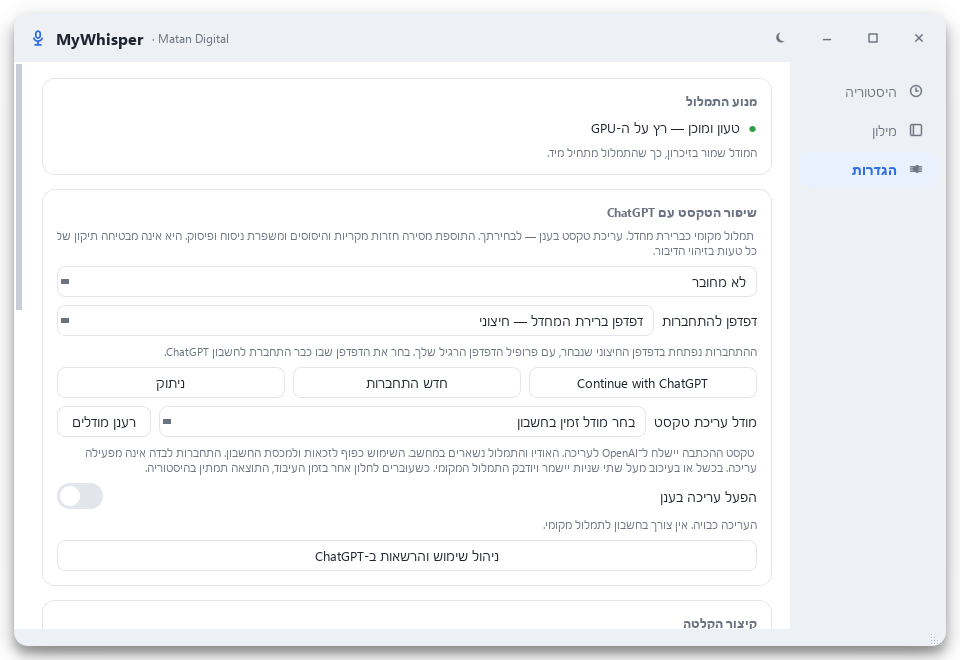
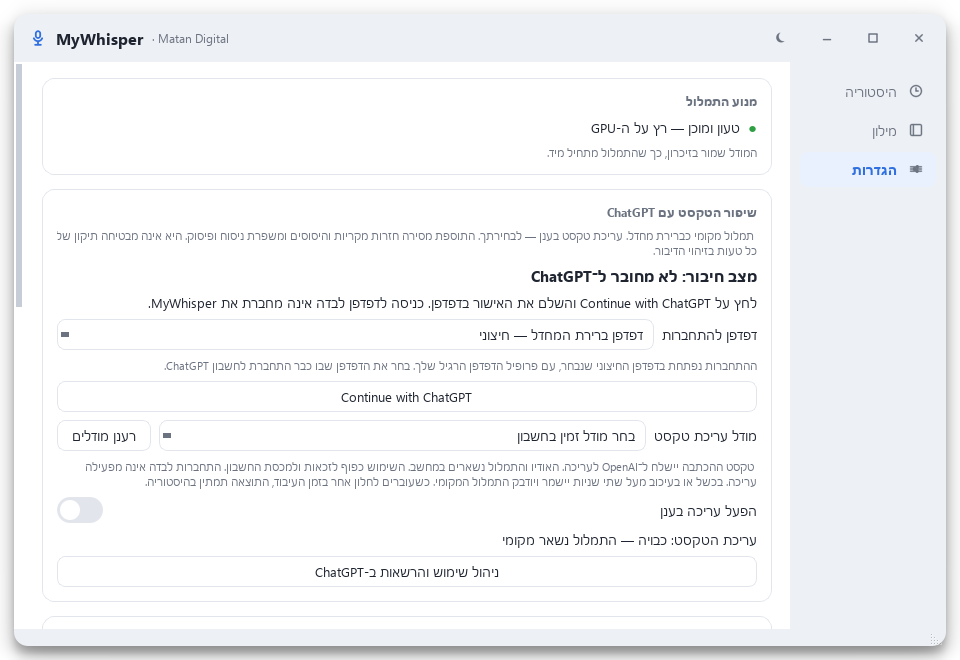
Clarify ChatGPT connection status and preserve sign-in failures

Changed region(s): [[0.0625, 0.3939, 0.7812, 0.8788], [0.0625, 0.9091, 0.7812, 0.9697], [0.0625, 0.4545, 0.0938, 0.5152]]

diff --git a/docs/index.html b/docs/index.html
@@ -916,12 +916,12 @@ footer a{color:var(--muted);transition:color 0.2s}footer a:hover{color:var(--tex
     <p class="sub">העדכונים האחרונים מתוך יומן השינויים של התוכנה.</p>
     <div class="release-notes">
       <ul>
+        <li><strong>מצב חיבור ברור ל-ChatGPT</strong>: חיווי בולט „מחובר”, „לא מחובר”, „ממתין לאישור” או „נדרשת התחברות מחדש”, לצד חשבון פעיל. מצב עריכת הטקסט מוצג בנפרד, שגיאת התחברות נשארת במסך, והפעלת עריכה זמינה רק אחרי חיבור זכאי ובחירת מודל זמין.</li>
         <li><strong>התחברות בדפדפן החיצוני</strong>: בחירת דפדפן מותקן (למשל Chrome או Edge) והפעלתו ישירות, כדי להשתמש בפרופיל שבו כבר נכנסתם לחשבון ChatGPT. גם ניהול השימוש נפתח באותו דפדפן.</li>
         <li><strong>שיפור הטקסט עם ChatGPT לבחירה</strong>: ניקוי חזרות מקריות והיסוסים ושיפור ניסוח ופיסוק אחרי התמלול המקומי ומילון התיקונים. התוספת כבויה בהתקנה חדשה ובשדרוג; התחברות לבדה אינה מפעילה אותה.</li>
         <li><strong>חשבון אישי והרשאות מוגנות</strong>: התחברות רשמית עם ChatGPT בדפדפן, בחירת חשבון ומודל זמין, ניתוק וקישור לניהול שימוש. ההרשאות מוצפנות עם Windows DPAPI בתיקיית המשתמש, בנפרד מהפרויקט. אין מפתח API משותף או מעבר אוטומטי ל-API בתשלום.</li>
         <li><strong>תקציב עריכה של שתי שניות</strong>: חיווי „מסדר טקסט…” ותשובה מלאה לפני הדבקה אחת. בכשל, מכסה חסומה או עיכוב — שימוש בתמלול המקומי והתעלמות מתוצאה מאוחרת.</li>
         <li><strong>מקור בהיסטוריה ושמירה על יעד ההדבקה</strong>: „הצג מקור” מציג את התמלול שלפני עריכת OpenAI. מעבר לחלון אחר בזמן העיבוד משאיר את התוצאה בהיסטוריה ומציג הודעה במקום להדביק בחלון האחר.</li>
-        <li><strong>הגדרה ברורה של פרטיות</strong>: תמלול מקומי כברירת מחדל. עריכת טקסט בענן — לבחירתך. רק טקסט ההכתבה נשלח לעריכה כאשר התוספת מופעלת; האודיו נשאר במחשב. השימוש כפוף לזכאות ולמכסת חשבון ChatGPT.</li>
       </ul>
     </div>
     <div class="cta-row">

diff --git a/app/ui_pages/settings_page.py b/app/ui_pages/settings_page.py
@@ -245,6 +245,17 @@ class SettingsPageMixin:
             "התוספת מסירה חזרות מקריות והיסוסים ומשפרת ניסוח ופיסוק. "
             "היא אינה מבטיחה תיקון של כל טעות בזיהוי הדיבור."))
         self._cloud_busy = False
+        self._cloud_connection = QLabel()
+        self._cloud_connection.setObjectName("connectionstatus")
+        self._cloud_connection.setTextFormat(Qt.PlainText)
+        self._cloud_connection.setWordWrap(True)
+        self._cloud_connection.setAccessibleName("מצב החיבור לחשבון ChatGPT")
+        card.vbox.addWidget(self._cloud_connection)
+        self._cloud_connection_detail = QLabel()
+        self._cloud_connection_detail.setTextFormat(Qt.PlainText)
+        self._cloud_connection_detail.setObjectName("fieldlabel")
+        self._cloud_connection_detail.setWordWrap(True)
+        card.vbox.addWidget(self._cloud_connection_detail)
         self._cloud_account = QComboBox()
         self._cloud_account.setAccessibleName("חשבון ChatGPT פעיל")
         self._cloud_account.currentIndexChanged.connect(self._cloud_account_changed)
@@ -302,7 +313,9 @@ class SettingsPageMixin:
         card.vbox.addLayout(row)
         self._cloud_status = QLabel()
         self._cloud_status.setWordWrap(True)
-        self._cloud_status.setObjectName("hint")
+        self._cloud_status.setTextFormat(Qt.PlainText)
+        self._cloud_status.setObjectName("fieldlabel")
+        self._cloud_status.setAccessibleName("מצב עריכת הטקסט בענן")
         card.vbox.addWidget(self._cloud_status)
         usage = QPushButton("ניהול שימוש והרשאות ב-ChatGPT")
         usage.clicked.connect(lambda: self.ui.chatgpt_action("usage"))
@@ -318,7 +331,7 @@ class SettingsPageMixin:
             return
         st = status or self.ui.chatgpt_status()
         for combo, items, current in (
-            (self._cloud_account, [("לא מחובר", "")] + [(a["label"], a["key"]) for a in st.get("accounts", [])], st.get("active", "")),
+            (self._cloud_account, [("בחר חשבון", "")] + [(a["label"], a["key"]) for a in st.get("accounts", [])], st.get("active", "")),
             (self._cloud_model, [("בחר מודל זמין בחשבון", "")] + [(m["display_name"], m["slug"]) for m in st.get("models", [])], st.get("model", ""))):
             existing = [(combo.itemText(i), combo.itemData(i)) for i in range(combo.count())]
             combo.blockSignals(True)
@@ -330,25 +343,68 @@ class SettingsPageMixin:
                 combo.setCurrentIndex(max(0, combo.findData(current)))
             combo.blockSignals(False)
         connected = st.get("connected", False)
+        error = st.get("error")
+        reconnect = error in ("authorization", "identity") or (bool(st.get("active")) and not connected)
+        self._cloud_account.setVisible(bool(st.get("accounts")))
+        self._cloud_relogin.setVisible(reconnect or (connected and not st.get("eligible")))
         self._cloud_relogin.setEnabled(bool(st.get("active")))
+        self._cloud_logout.setVisible(connected)
         self._cloud_logout.setEnabled(connected)
+        self._cloud_model.setEnabled(connected and st.get("eligible", False))
         self._cloud_refresh.setEnabled(connected)
+        model_ready = st.get("model") in {m["slug"] for m in st.get("models", [])}
+        ready = (connected and st.get("eligible", False) and model_ready
+                 and error not in ("authorization", "identity", "permission", "ineligible", "storage"))
+        self._cloud_switch.setEnabled(bool(ready) or st.get("enabled") is True)
         self._cloud_switch.blockSignals(True)
         self._cloud_switch.setChecked(st.get("enabled") is True)
         self._cloud_switch.blockSignals(False)
-        error = st.get("error")
-        text = ("העריכה פעילה בחשבון " + st.get("email", "ChatGPT") if st.get("enabled") else
-                "החשבון מחובר; העריכה כבויה." if connected else "העריכה כבויה. אין צורך בחשבון לתמלול מקומי.")
+        if error == "storage":
+            connection = "מצב חיבור: לא ניתן לקרוא או לשמור הרשאות"
+            detail = "ההרשאות המוצפנות אינן זמינות. התמלול ממשיך מקומית."
+        elif reconnect:
+            connection = "מצב חיבור: נדרשת התחברות מחדש"
+            detail = "ההרשאה לחשבון אינה פעילה. לחץ על ‘חדש התחברות’ ואשר בדפדפן."
+        elif connected:
+            connection = "מצב חיבור: מחובר ל־ChatGPT"
+            detail = "חשבון פעיל: " + (st.get("email") or "ChatGPT")
+        else:
+            connection = "מצב חיבור: לא מחובר ל־ChatGPT"
+            detail = "לחץ על Continue with ChatGPT והשלם את האישור בדפדפן. כניסה לדפדפן לבדה אינה מחברת את MyWhisper."
+        signin_error = st.get("sign_in_error")
+        if signin_error:
+            failure = {
+                "timeout": "האישור לא התקבל בזמן. לחץ על ההתחברות ופתח ניסיון חדש בדפדפן.",
+                "cancelled": "ניסיון ההתחברות בוטל. אפשר להתחבר שוב כשתרצה.",
+                "permission": "ההרשאה לא אושרה. נסה שוב ואשר את החיבור בדפדפן.",
+                "identity": "אימות זהות החשבון נכשל. נסה להתחבר מחדש.",
+                "authorization": "ההרשאה נדחתה או פגה. נסה להתחבר מחדש.",
+                "browser": "הדפדפן לא נפתח. בחר דפדפן מותקן ונסה שוב.",
+                "storage": "לא ניתן לשמור את הרשאות החיבור במחשב.",
+            }.get(signin_error, "החיבור לא הושלם. בדוק את האינטרנט ונסה שוב.")
+            if connected:
+                detail += "\nהניסיון האחרון לא הושלם: " + failure
+            else:
+                detail = failure
+        if st.get("signing_in"):
+            connection = "מצב חיבור: ממתין לאישור בדפדפן…"
+            detail = "השלם את ההתחברות והאישור בדפדפן. החיבור יופיע כאן לאחר שהאישור יתקבל."
+        self._cloud_connection.setText(connection)
+        self._cloud_connection_detail.setText(detail)
+        self._cloud_switch.setToolTip("" if ready else "יש לחבר חשבון זכאי ולבחור מודל זמין לפני הפעלה.")
+        text = ("עריכת הטקסט: פעילה" if st.get("enabled") else "עריכת הטקסט: כבויה — התמלול נשאר מקומי")
         if connected and not st.get("eligible", False):
-            text = "החשבון לא אישר שימוש במסגרת ChatGPT או אינו זכאי; התמלול ממשיך מקומית."
+            text += "\nהחשבון מחובר, אך לא אושרה הרשאת עריכה או שהחשבון אינו זכאי."
         elif error:
-            text = {"quota": "המכסה אינה זמינה. העריכה כובתה; בדוק ניהול שימוש לפני הפעלה מחדש.",
+            text += "\n" + {"quota": "המכסה אינה זמינה. העריכה כובתה; בדוק ניהול שימוש לפני הפעלה מחדש.",
                     "ineligible": "החשבון אינו זכאי לעריכה. התמלול ממשיך מקומית.",
                     "storage": "שמירת ההרשאות המוצפנות אינה זמינה; התמלול ממשיך מקומית.",
                     "unsupported": "המודל או האפשרות שנבחרו אינם נתמכים; בחר מודל אחר."}.get(
                         error, "נדרש חיבור מחדש לחשבון ChatGPT; התמלול ממשיך מקומית.")
-        elif connected and not st.get("model"):
-            text = "יש לבחור מודל זמין בחשבון לפני הפעלת העריכה."
+        elif connected and not model_ready:
+            text += "\nבחר מודל זמין ואז הפעל עריכה בנפרד."
+        elif connected and not st.get("enabled"):
+            text += "\nהחשבון מחובר. להפעלת השיפור יש להפעיל את המתג ולאשר שליחת טקסט."
         self._cloud_status.setText(text)
         self._cloud_login.setToolTip("הוסף חשבון ChatGPT" if st.get("accounts") else "התחבר עם חשבון ChatGPT אישי")
 
@@ -393,6 +449,9 @@ class SettingsPageMixin:
             widget.setEnabled(False)
         self._cloud_switch.setEnabled(action == "catalog" and self.ui.chatgpt_status().get("enabled", False))
         self._cloud_browser.setEnabled(False)
+        if action in ("login", "relogin"):
+            self._cloud_connection.setText("מצב חיבור: ממתין לאישור בדפדפן…")
+            self._cloud_connection_detail.setText("השלם את ההתחברות והאישור בדפדפן. החיבור יופיע כאן לאחר שהאישור יתקבל.")
         self._cloud_cancel.setVisible(action in ("login", "relogin"))
         self._cloud_status.setText("השלם התחברות ואישור בדפדפן…" if action in ("login", "relogin") else "מעבד…")
         def work():

diff --git a/tests/test_chatgpt.py b/tests/test_chatgpt.py
@@ -204,6 +204,7 @@ class OAuthTests(unittest.TestCase):
         self.addCleanup(http.close)
         auth = ChatGPTAuth(http, MemoryStore())
         def browser(url):
+            self.assertTrue(auth.status()["signing_in"])
             self.params.update({k: v[0] for k, v in parse_qs(urlsplit(url).query).items()})
             query = {"state": self.params["state"], "client_id": "oaiapp_test", "code": "code"}
             query.update(callback_changes or {})
@@ -222,6 +223,8 @@ class OAuthTests(unittest.TestCase):
         status = auth.sign_in(browser=browser, timeout=1)
         self.assertTrue(status["connected"])
         self.assertFalse(status["enabled"])
+        self.assertFalse(status["signing_in"])
+        self.assertEqual(status["sign_in_error"], "")
         self.assertTrue(status["eligible"])
         self.assertEqual(status["models"][0]["slug"], "gpt-6-luna")
         self.assertEqual(self.params["client_id"], "dynamic_agent_client")
@@ -249,6 +252,18 @@ class OAuthTests(unittest.TestCase):
         with self.assertRaises(AuthError):
             auth.sign_in(browser=browser, timeout=.06)
         self.assertEqual(self.calls, [])
+        self.assertFalse(auth.status()["signing_in"])
+        self.assertEqual(auth.status()["sign_in_error"], "timeout")
+
+    def test_failed_new_login_keeps_existing_connection_and_retry_clears_failure(self):
+        auth, browser = self.setup_auth()
+        connected(auth)
+        with self.assertRaises(AuthError):
+            auth.sign_in(browser=lambda _: False)
+        self.assertTrue(auth.status()["connected"])
+        self.assertEqual(auth.status()["sign_in_error"], "browser")
+        auth.sign_in(browser=browser, timeout=1)
+        self.assertEqual(auth.status()["sign_in_error"], "")
 
     def test_invalid_signature_is_rejected(self):
         auth, _ = self.setup_auth()
@@ -442,6 +457,38 @@ class CloudSettingsTests(unittest.TestCase):
     def test_construct_and_refresh_settings_perform_no_auth_actions(self):
         self.win._refresh_cloud()
         self.assertFalse(self.win._cloud_switch.isChecked())
+        self.ui.chatgpt_action.assert_not_called()
+
+    def test_connection_and_editing_states_are_independent_and_controls_are_gated(self):
+        base = {"accounts": [], "models": [{"slug": "luna", "display_name": "Luna"}], "enabled": False}
+        cases = [
+            ({}, "לא מחובר", "כבויה", False),
+            ({"connected": True, "eligible": True, "email": "owner@example.test", "model": "luna"}, "מחובר ל־ChatGPT", "כבויה", True),
+            ({"connected": True, "eligible": True, "enabled": True, "model": "luna"}, "מחובר ל־ChatGPT", "פעילה", True),
+            ({"connected": True, "eligible": True}, "מחובר ל־ChatGPT", "בחר מודל", False),
+            ({"connected": True, "eligible": True, "model": "luna", "models": []}, "מחובר ל־ChatGPT", "בחר מודל", False),
+            ({"connected": True, "eligible": False, "active": "a"}, "מחובר ל־ChatGPT", "אינו זכאי", False),
+            ({"connected": False, "active": "a", "error": "authorization"}, "נדרשת התחברות מחדש", "כבויה", False),
+            ({"signing_in": True}, "ממתין לאישור", "כבויה", False),
+        ]
+        for changes, connection, editing, ready in cases:
+            with self.subTest(changes=changes):
+                self.win._refresh_cloud({**base, **changes})
+                self.assertIn(connection, self.win._cloud_connection.text())
+                self.assertIn(editing, self.win._cloud_status.text())
+                self.assertEqual(self.win._cloud_switch.isEnabled(), ready)
+        self.ui.chatgpt_action.assert_not_called()
+
+    def test_login_failure_stays_visible_after_polling_without_hiding_existing_account(self):
+        for connected_now in (False, True):
+            status = {"connected": connected_now, "sign_in_error": "timeout", "email": "owner@example.test"}
+            self.ui.chatgpt_status = lambda: status
+            for _ in range(3):
+                self.win._refresh_cloud()
+                self.assertIn("האישור לא התקבל בזמן", self.win._cloud_connection_detail.text())
+                self.assertIn("מחובר ל־ChatGPT" if connected_now else "לא מחובר", self.win._cloud_connection.text())
+            if connected_now:
+                self.assertIn("owner@example.test", self.win._cloud_connection_detail.text())
         self.ui.chatgpt_action.assert_not_called()
 
     def test_cancel_activation_does_not_opt_in(self):

diff --git a/app/chatgpt_auth.py b/app/chatgpt_auth.py
@@ -138,6 +138,8 @@ class ChatGPTAuth:
         self._signin_cancel = threading.Event()
         self._signin_lock = threading.Lock()
         self.error = ""
+        self.signing_in = False
+        self.sign_in_error = ""
         try:
             self.data = self.store.load()
         except AuthError:
@@ -154,6 +156,7 @@ class ChatGPTAuth:
                     "connected": bool(account.get("refresh_token")),
                     "eligible": REQUIRED_SCOPES <= set(account.get("scopes", [])),
                     "email": account.get("email", ""), "error": self.error,
+                    "signing_in": self.signing_in, "sign_in_error": self.sign_in_error,
                     "models": list(account.get("models", [])),
                     "accounts": [{"key": key, "label": (a.get("email") or "ChatGPT")
                                   + " · " + key[-6:]} for key, a in self.data["accounts"].items()]}
@@ -183,6 +186,7 @@ class ChatGPTAuth:
             self.data["active"] = key
             self.store.save(self.data)
             self.error = ""
+            self.sign_in_error = ""
 
     async def _json(self, method, url, **kwargs):
         response = await self.http.client.request(method, url, **kwargs)
@@ -236,10 +240,24 @@ class ChatGPTAuth:
     def sign_in(self, returning=False, browser=open_external_browser, timeout=180):
         if not self._signin_lock.acquire(blocking=False):
             raise AuthError("busy")
+        with self.lock:
+            self.signing_in = True
+            self.sign_in_error = ""
         try:
-            return self._sign_in(returning, browser, timeout)
+            self._sign_in(returning, browser, timeout)
+        except AuthError as error:
+            with self.lock:
+                self.sign_in_error = str(error)
+            raise
+        except Exception:
+            with self.lock:
+                self.sign_in_error = "connection"
+            raise
         finally:
+            with self.lock:
+                self.signing_in = False
             self._signin_lock.release()
+        return self.status()
 
     def _sign_in(self, returning, browser, timeout):
         self._signin_cancel.clear()
@@ -415,6 +433,7 @@ class ChatGPTAuth:
                 self._active().pop(name, None)
             self.store.save(self.data)
             self.error = ""
+            self.sign_in_error = ""
         async def revoke():
             metadata = await self._json("GET", AUTH + "/.well-known/openid-configuration")
             endpoint = metadata.get("revocation_endpoint")

diff --git a/app/make_screens.py b/app/make_screens.py
@@ -97,8 +97,24 @@ def main():
     parser = argparse.ArgumentParser(description=__doc__)
     parser.add_argument("--overlay-only", action="store_true",
                         help="Refresh only the recording HUD screenshot")
+    parser.add_argument("--chatgpt-states", action="store_true",
+                        help="Render connected and failed-sign-in examples with synthetic account data")
     args = parser.parse_args()
     DOCS.mkdir(exist_ok=True)
+    if args.chatgpt_states:
+        for name, status in (
+            ("connected", {"active": "demo", "connected": True, "eligible": True,
+                           "email": "demo@example.test", "enabled": False, "model": "gpt-6-luna",
+                           "accounts": [{"key": "demo", "label": "demo@example.test"}],
+                           "models": [{"slug": "gpt-6-luna", "display_name": "GPT-6 Luna"}]}),
+            ("timeout", {"connected": False, "enabled": False, "sign_in_error": "timeout"}),
+        ):
+            win = build("dark")
+            win.ui.chatgpt_status = lambda status=status: status
+            win._refresh_cloud()
+            shoot(win, 2, DOCS / f"app-chatgpt-{name}-dark.png")
+            win.close()
+        return
     if args.overlay_only:
         shoot_overlay()
         return

diff --git a/app/main.py b/app/main.py
@@ -264,6 +264,7 @@ class Mywishper(QObject):
             elif action == "cancel":
                 self.chatgpt._signin_cancel.set()
         except AuthError as error:
+            log.info("ChatGPT action %s did not complete (%s)", action, str(error))
             message = {
                 "permission": "החשבון לא אישר שימוש במסגרת ChatGPT או אינו זכאי. התמלול ממשיך מקומית.",
                 "identity": "אימות זהות החשבון נכשל. יש להתחבר מחדש.",
@@ -274,6 +275,7 @@ class Mywishper(QObject):
                 "browser": "לא ניתן לפתוח את הדפדפן להתחברות.",
             }.get(str(error), "החיבור לא הושלם. אפשר לנסות שוב; התמלול ממשיך מקומית.")
         except Exception:
+            log.info("ChatGPT action %s did not complete", action)
             message = "החיבור לא הושלם. בדוק את האינטרנט ונסה שוב; התמלול ממשיך מקומית."
         status = self._chatgpt_status()
         return {**status, "message": message,

diff --git a/app/theme.py b/app/theme.py
@@ -283,6 +283,7 @@ QScrollBar:horizontal {{ height: 0; }}
    setStyleSheet at each call site. Set with setObjectName(). */
 #hint {{ color: {p['text_muted']}; font-size: {FS['hint']}px; }}
 #fieldlabel {{ color: {p['text']}; font-size: {FS['body']}px; }}
+#connectionstatus {{ color: {p['text']}; font-size: {FS['title']}px; font-weight: 600; }}
 #cardtext {{ color: {p['text']}; font-size: {FS['read']}px; }}
 #statusok {{ color: #2ea043; font-size: {FS['hint']}px; font-weight: bold; }}
 #toast {{ background: {p['surface_alt']}; border: 1px solid {p['border']};

diff --git a/docs/chatgpt-validation.md b/docs/chatgpt-validation.md
@@ -5,10 +5,11 @@
 
 ## אימות שבוצע ב-3 באוקטובר 2026
 
-- 194 בדיקות רגרסיה עברו בסביבת הפרויקט, ו-184 עברו בהרצת התקנה נקייה מקומית (2 בדיקות CUDA דולגו בסביבת CPU). מאז נוספו בדיקות „הצג מקור” ופתיחת דפדפן חיצוני, כולל שמירת הבחירה בזמן התחברות ושינוי הגדרות.
+- 197 בדיקות רגרסיה עברו בסביבת הפרויקט. בדיקת התקנה נקייה מקומית קודמת כללה 184 בדיקות (2 בדיקות CUDA דולגו בסביבת CPU); תהליך Windows ב-CI מתקין סביבה נקייה ובודק גם את השינויים המאוחרים.
 - `pip check`, בדיקת imports/UI ובדיקת סנכרון הגרסה עברו.
 - כרטיס ההגדרות נבדק באפליקציה שרצה ב-Windows, במצב כבוי וללא הרשאות חשבון.
 - בחירת Google Chrome נשמרה דרך הממשק ונבדקה בקובץ ההגדרות. לחיצה על ההתחברות פתחה בפועל את „Use ChatGPT to sign in to MyWhisper” ב-Google Chrome, גם כאשר Edge הוא ברירת המחדל של Windows. אישור ההרשאות נשאר בידי המשתמש.
+- מצבי חיבור ועריכה נבדקים בנפרד: לא מחובר, מחובר עם עריכה כבויה/פעילה, מודל חסר או לא זמין, חשבון ללא זכאות, הרשאה שאינה פעילה, המתנה לאישור וכישלון התחברות שנשאר גלוי אחרי רענון. צילומי מצב מחובר וכישלון הופקו עם חשבון הדגמה בלבד ונבדקו במצב כהה; מצב לא מחובר נבדק גם במצב בהיר.
 - בדיקת עיבוד GPU אמיתית עם אות סינתטי עברה. זו אינה בדיקת דיוק דיבור.
 - `scripts/check_dictation_delivery.py` עבר עם הדבקה native לשדה בדיקה, ושמירה ללא הדבקה אחרי מעבר חלון. נעשה שימוש בטקסט סינתטי ובתמלול מדומה, ללא היסטוריה אישית.
 - התחברות לחשבון אמיתי, מדידת 20 הטקסטים ובדיקת איכות עריכת ענן ממתינות להפעלה מפורשת של בעל החשבון.

diff --git a/README.md b/README.md
@@ -150,6 +150,7 @@ irm https://raw.githubusercontent.com/MatanCH2020/MyWhisper/main/scripts/uninsta
 
 1. בחרו **דפדפן להתחברות** שבו כבר נכנסתם לחשבון (למשל Google Chrome), לחצו **Continue with ChatGPT** והשלימו אישור בדפדפן החיצוני שנבחר. כל משתמש מחבר את חשבונו האישי. MyWhisper אינו קורא את עוגיות הדפדפן או הסיסמאות.
 2. בחרו מודל מהקטלוג של החשבון. **GPT-6 Luna** נבחר אם זמין, עם `reasoning.effort=none`; אחרת יש לבחור מודל. התחברות אינה מפעילה עריכה.
+   בראש הכרטיס מופיע **מצב החיבור לחשבון** עם החשבון הפעיל. **מצב עריכת הטקסט** מופיע בנפרד: גם כשמחוברים, העריכה נשארת כבויה עד להפעלה מפורשת. בזמן התחברות יופיע „ממתין לאישור בדפדפן”; אם האישור לא התקבל, ההסבר נשאר בכרטיס גם אחרי שההודעה הזמנית נעלמת.
 3. הפעילו **הפעל עריכה בענן** ואשרו: **טקסט ההכתבה יישלח ל־OpenAI לעריכה. האודיו והתמלול נשארים במחשב. השימוש כפוף לזכאות ולמכסת החשבון.** כלומר רק עותק הטקסט נשלח לעריכה; התמלול המקורי והאודיו מעובדים מקומית.
 4. להחזרת מסלול מקומי בלבד, כבו את המתג. הכיבוי מפסיק עריכות וחידוש הרשאות ברקע מיד. „ניתוק” מוחק את ההרשאות המקומיות ומנסה לבטל גם את ההרשאה בשרת.
 

diff --git a/CHANGELOG.md b/CHANGELOG.md
@@ -4,6 +4,7 @@
 
 ## גרסה 1.13.0
 
+- **מצב חיבור ברור ל-ChatGPT**: חיווי בולט „מחובר”, „לא מחובר”, „ממתין לאישור” או „נדרשת התחברות מחדש”, לצד חשבון פעיל. מצב עריכת הטקסט מוצג בנפרד, שגיאת התחברות נשארת במסך, והפעלת עריכה זמינה רק אחרי חיבור זכאי ובחירת מודל זמין.
 - **התחברות בדפדפן החיצוני**: בחירת דפדפן מותקן (למשל Chrome או Edge) והפעלתו ישירות, כדי להשתמש בפרופיל שבו כבר נכנסתם לחשבון ChatGPT. גם ניהול השימוש נפתח באותו דפדפן.
 
 - **שיפור הטקסט עם ChatGPT לבחירה**: ניקוי חזרות מקריות והיסוסים ושיפור ניסוח ופיסוק אחרי התמלול המקומי ומילון התיקונים. התוספת כבויה בהתקנה חדשה ובשדרוג; התחברות לבדה אינה מפעילה אותה.
